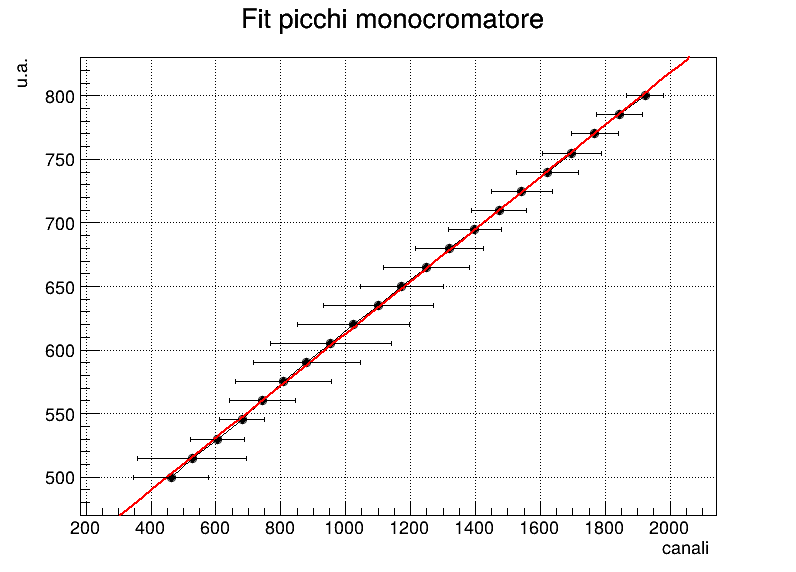
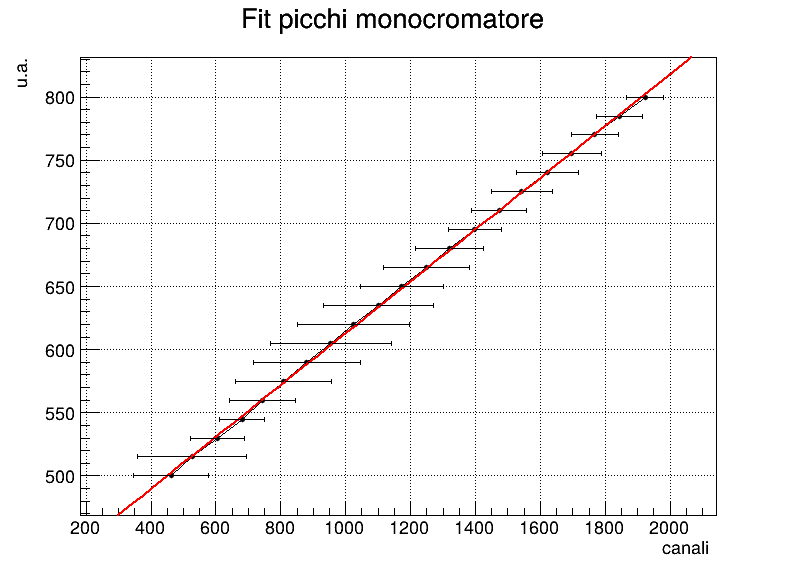
ok

diff --git a/calibrazione_spettrometro.C b/calibrazione_spettrometro.C
@@ -1,0 +1,117 @@
+#include<iostream>
+#include<vector>
+#include "TF1.h"
+#include "TCanvas.h"
+#include "TGraphErrors.h"
+
+
+
+
+using namespace std;
+
+
+
+
+void calibrazione_spettrometro(){
+    //
+    //
+    vector<double> lambda={
+        365.015,
+        404.655,
+        435.833,
+        546.074,
+        579.066,
+        696.543,
+        763.511,
+        811.531,
+        842.465,
+        912.297,
+    };
+    vector<double> chn={
+        116.72,
+        299.46,
+        445.3,
+        972.2,
+        1128.8,
+        1725.7,
+        2075.8,
+        2331.9,
+        2499.57,
+        2895.5,
+    };
+    vector<double> err_lambda={};
+    vector<double> err_chn={
+        0.304166666666667,
+        6.5,
+        6.3,
+        7,
+        19.24,
+        7.7,
+        8.4,
+        10.5,
+        14.33,
+        8.9,
+    };
+    //
+    TCanvas* c1= new TCanvas("c1", "curva di calibrazione spettrometro", 800, 600);
+    c1->SetGrid();
+    //
+    //lunghezza degli array
+    int len= lambda.size();
+    //
+    //NB: se qualcosa qua non ha errori, al posto di err_chn o err_lambda, mettere nullptr al posto
+    TGraphErrors* gr1= new TGraphErrors(len, chn.data(), lambda.data(), err_chn.data(), nullptr);
+
+    gr1->SetTitle("Fit spettrometro; canali ; lambda [nm]");
+    gr1->SetMarkerStyle(20);
+    gr1->SetMarkerSize(0.3);
+    gr1->SetLineColor(1);
+    gr1->SetMarkerColor(1);
+    //
+    //eventualmente modifica gli estremi in cui è calcolata la TF1
+    TF1* fit= new TF1("fit", "pol3(0)", 0, 3000);
+    //
+    //si renderà necessario fittare i parametri iniziale; fare sistema di 4 equazioni in 4 incognite per trovarli (usare matlab)
+    fit->SetParameters(350, 0.2, 0, 0);
+    gr1->Fit("fit", "R");
+    gr1->Draw();  
+    c1->Print("FC_calibrazione_spettrometro.png", "png");
+cout<<"p-value é: " << fit->GetProb()<<endl;
+}
+
+
+
+
+
+
+
+
+
+
+/*MATLAB: il seguente codice lo si può usare per risolvere un sistema di 4 equazioni in 4 incognite in modo veloce
+%definizione dei parametri: la nostra funz. di fit è a+bx+cx^2+dx^3; le x saranno prese a punti diversi, quinid useremo x1, x2, x3, x4 per le 4 funioni
+
+
+syms x1 x2 x3 x4 a b c d
+
+
+x1=0; % mettici il valore del channel in cui trovi la lambda corrispettiva
+eq1= a*x1+b*x1+c*x1^2+d*x1^3==0; % al posto di 0 mettici il valore atteso di lambda  
+
+
+x2=0;
+eq2=  a+b*x2+c*x2^2+d*x2^3==0;
+
+
+x3=0;
+eq3=  a+b*x3+c*x3^2+d*x3^3==0;
+
+
+x4=0;
+eq4=  a+b*x4+c*x4^2+d*x4^3==0;
+
+
+sol= solve([eq1, eq2, eq3, eq4], [a, b, c, d]);
+
+
+*/

diff --git a/fit_monocromatore.C b/fit_monocromatore.C
@@ -84,7 +84,29 @@ void fit_monocromatore(){
         71.38,
         57.6,
     };
-    vector<double> err_ua={};
+    vector<double> err_ua={
+        1,
+        1,
+        1,
+        1,
+        1,
+        1,
+        1,
+        1,
+        1,
+        1,
+        1,
+        1,
+        1,
+        1,
+        1,
+        1,
+        1,
+        1,
+        1,
+        1,
+        1,
+    };
     //
     TCanvas* c1= new TCanvas("c1", "curva di calibrazione monocromatore", 800, 600);
     c1->SetGrid();
@@ -93,11 +115,11 @@ void fit_monocromatore(){
     int len= ua.size();
     //
     //NB: se qualcosa qua non ha errori, al posto di err_chn o err_lambda, mettere nullptr al posto
-    TGraphErrors* gr1= new TGraphErrors(len, chn.data(), ua.data(), err_chn.data(), nullptr);
+    TGraphErrors* gr1= new TGraphErrors(len, chn.data(), ua.data(), err_chn.data(), err_ua.data());
     //
     gr1->SetTitle("Fit picchi monocromatore; canali ; u.a.");
     gr1->SetMarkerStyle(20);
-    gr1->SetMarkerSize(1.2);
+    gr1->SetMarkerSize(0.7);
     gr1->SetLineColor(1);
     gr1->SetMarkerColor(1);
     //eventualmente modifica gli estremi in cui è calcolata la TF1
